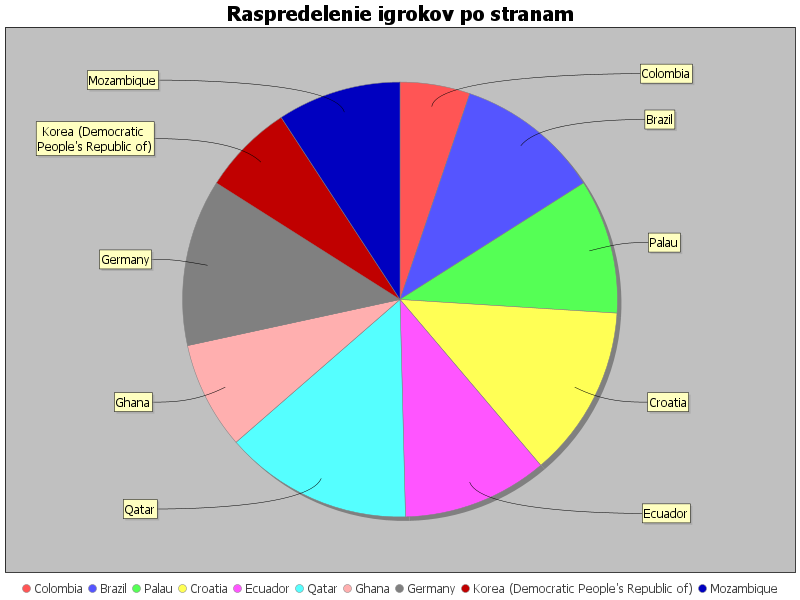
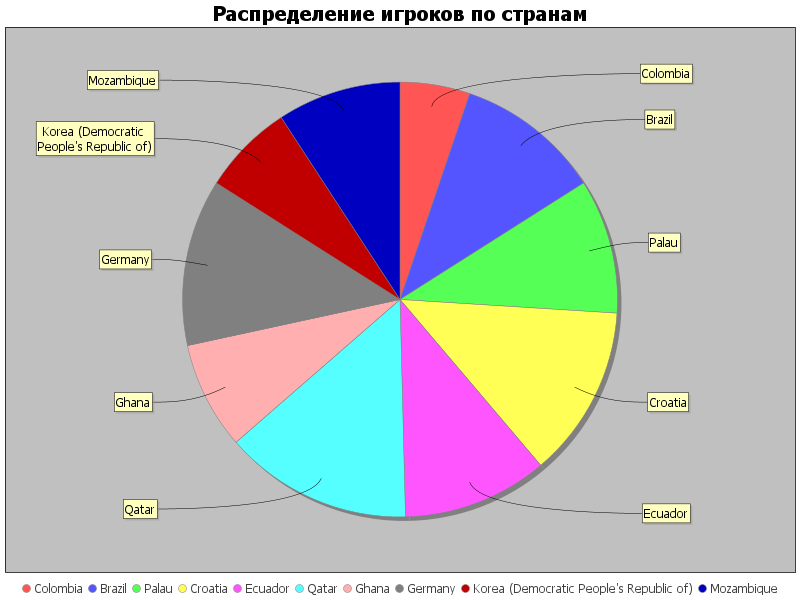
правки

Changed region(s): [[0.25, 0.0, 0.75, 0.06]]

diff --git a/src/main/kotlin/Main.kt b/src/main/kotlin/Main.kt
@@ -1,84 +1,63 @@
 import parser.CsvParser
 import resolver.Resolver
-import utils.Translit
 import org.jfree.chart.ChartFactory
 import org.jfree.chart.ChartUtils
 import org.jfree.data.general.DefaultPieDataset
 import java.io.File
 
 fun main() {
-    println(Translit.convert("==================================="))
-    println(Translit.convert("PRAKTICHESKAYA RABOTA - VARIANT 4"))
-    println(Translit.convert("==================================="))
+    println("практика - вариант 4")
 
-    // Zagruzhaem dannye
-    val allPlayers = CsvParser.getPlayers()
-    val analyzer = Resolver(allPlayers)
+    val players = CsvParser.getPlayers()
+    val resolver = Resolver(players)
 
-    // Zadanie 1 - Igroki bez agentstva
-    println(Translit.convert("\n[1] Igroki bez agentstva:"))
-    val withoutAgency = analyzer.getCountWithoutAgency()
-    println("    -> $withoutAgency chelovek")
+    // Задание 1
+    println("\n[1] Игроки без агентства:")
+    println("    -> ${resolver.getCountWithoutAgency()} человек")
 
-    // Zadanie 2 - Luchshiy zashchitnik bombardir
-    println(Translit.convert("\n[2] Luchshiy zashchitnik-bombardir:"))
-    val (bestScorer, goalsAmount) = analyzer.getBestScorerDefender()
-    println("    -> $bestScorer (goly: $goalsAmount)")
+    // Задание 2
+    println("\n[2] Лучший защитник-бомбардир:")
+    val (bestScorer, goals) = resolver.getBestScorerDefender()
+    println("    -> $bestScorer забил $goals голов")
 
-    // Zadanie 3 - Poziciya samogo dorogogo nemca
-    println(Translit.convert("\n[3] Poziciya samogo dorogogo nemeckogo igroka:"))
-    val germanPosition = analyzer.getTheExpensiveGermanPlayerPosition()
-    println("    -> ${Translit.convert(germanPosition)}")
+    // Задание 3
+    println("\n[3] Позиция самого дорогого немецкого игрока:")
+    println("    -> ${resolver.getTheExpensiveGermanPlayerPosition()}")
 
-    // Zadanie 4 - Samaya grubaya komanda
-    println(Translit.convert("\n[4] Komanda s naibolshim srednim chislom krasnyh kartochek:"))
-    val rudeTeam = analyzer.getTheRudestTeam()
+    // Задание 4
+    println("\n[4] Самая грубая команда:")
+    val rudeTeam = resolver.getTheRudestTeam()
     println("    -> ${rudeTeam.name} (${rudeTeam.city})")
 
-    // Vizualizaciya - diagramma po stranam
-    println(Translit.convert("\n[5] Sozdanie diagrammy raspredeleniya po stranam..."))
-    val countryStats = analyzer.getPlayersByCountry()
+    // Визуализация
+    println("\n[5] Создание диаграммы распределения по странам...")
+    val countryStats = resolver.getPlayersByCountry()
 
-    // Vyvod statistiki v konsol
-    println(Translit.convert("\nSTATISTIKA PO STRANAM:"))
-    println(Translit.convert("---------------------"))
+    println("\nСТАТИСТИКА ПО СТРАНАМ:")
+    println("---------------------")
+    countryStats.toList()
+        .sortedByDescending { it.second }
+        .forEachIndexed { index, (country, count) ->
+            println("${index + 1}. $country: $count")
+        }
 
-    val sortedCountries = countryStats.toList().sortedByDescending { (_, count) -> count }
-
-    for ((index, pair) in sortedCountries.withIndex()) {
-        val (country, count) = pair
-        println("${index + 1}. $country: $count")
-    }
-
-    // Sohranyaem diagrammu
-    savePieChart(countryStats, "countries_pie_chart.png")
-    println(Translit.convert("\n✅ Diagramma sohranena v fail: countries_pie_chart.png"))
-
-    // Dopolnitelnaya informaciya
-    println(Translit.convert("\n" + "=".repeat(40)))
-    println(Translit.convert("VSEGO PROANALIZIROVANO: ${allPlayers.size} igrokov"))
-    println(Translit.convert("=".repeat(40)))
+    saveCountryChart(countryStats, "countries_pie_chart.png")
+    println("\n Диаграмма сохранена: countries_pie_chart.png")
 }
 
-fun savePieChart(data: Map<String, Int>, fileName: String) {
+private fun saveCountryChart(data: Map<String, Int>, fileName: String) {
     val dataset = DefaultPieDataset<String>()
-
-    // Zapolnyaem dannyami
-    for ((category, value) in data) {
-        dataset.setValue(category, value.toDouble())
+    data.forEach { (country, count) ->
+        dataset.setValue(country, count.toDouble())
     }
 
-    // Sozdaem diagrammu
     val chart = ChartFactory.createPieChart(
-        Translit.convert("Raspredelenie igrokov po stranam"),
+        "Распределение игроков по странам",
         dataset,
-        true,  // legenda
-        true,  // podskazki
-        false  // URL
+        true,
+        true,
+        false
     )
 
-    // Sohranyaem kak PNG
-    val width = 800
-    val height = 600
-    ChartUtils.saveChartAsPNG(File(fileName), chart, width, height)
+    ChartUtils.saveChartAsPNG(File(fileName), chart, 800, 600)
 }

diff --git a/src/main/kotlin/resolver/Resolver.kt b/src/main/kotlin/resolver/Resolver.kt
@@ -7,74 +7,42 @@ import model.Position
 class Resolver(private val players: List<Player>) : IResolver {
 
     override fun getCountWithoutAgency(): Int {
-        // Другая реализация через fold
-        return players.fold(0) { acc, player ->
-            if (player.agency.isBlank()) acc + 1 else acc
-        }
+        return players.count { it.agency.isBlank() }
     }
 
     override fun getBestScorerDefender(): Pair<String, Int> {
-        // Другая реализация через переменные
-        var bestName = ""
-        var bestGoals = -1
-
-        for (player in players) {
-            if (player.position == Position.DEFENDER && player.goals > bestGoals) {
-                bestGoals = player.goals
-                bestName = player.name
-            }
-        }
-
-        return if (bestGoals > -1) bestName to bestGoals else "" to 0
+        return players
+            .filter { it.position == Position.DEFENDER }
+            .maxByOrNull { it.goals }
+            ?.let { it.name to it.goals }
+            ?: ("" to 0)
     }
 
     override fun getTheExpensiveGermanPlayerPosition(): String {
-        // Сортируем по-другому
-        val germanPlayers = players.filter { it.nationality.equals("Germany", ignoreCase = true) }
-        if (germanPlayers.isEmpty()) return ""
-
-        // Сортируем вручную
-        val sorted = germanPlayers.sortedByDescending { it.transferCost }
-        val mostExpensive = sorted.firstOrNull() ?: return ""
-
-        return when (mostExpensive.position) {
-            Position.GOALKEEPER -> "Вратарь"
-            Position.DEFENDER -> "Защитник"
-            Position.MIDFIELD -> "Полузащитник"
-            Position.FORWARD -> "Нападающий"
-        }
+        return players
+            .filter { it.nationality.equals("Germany", ignoreCase = true) }
+            .maxByOrNull { it.transferCost }
+            ?.position
+            ?.let { pos ->
+                when (pos) {
+                    Position.GOALKEEPER -> "Вратарь"
+                    Position.DEFENDER -> "Защитник"
+                    Position.MIDFIELD -> "Полузащитник"
+                    Position.FORWARD -> "Нападающий"
+                }
+            } ?: ""
     }
 
     override fun getTheRudestTeam(): Team {
-        // Другая реализация через mutableMap
-        val teamStats = mutableMapOf<Team, Pair<Int, Int>>() // сумма красных, кол-во игроков
-
-        for (player in players) {
-            val current = teamStats[player.team] ?: (0 to 0)
-            teamStats[player.team] = (current.first + player.redCards) to (current.second + 1)
-        }
-
-        var worstTeam: Team? = null
-        var maxAverage = -1.0
-
-        for ((team, stats) in teamStats) {
-            val average = stats.first.toDouble() / stats.second
-            if (average > maxAverage) {
-                maxAverage = average
-                worstTeam = team
+        return players
+            .groupBy { it.team }
+            .maxByOrNull { (_, teamPlayers) ->
+                teamPlayers.map { it.redCards }.average()
             }
-        }
-
-        return worstTeam ?: Team("", "")
+            ?.key ?: Team("", "")
     }
 
     fun getPlayersByCountry(): Map<String, Int> {
-        // Другая реализация через mutableMap
-        val result = mutableMapOf<String, Int>()
-        for (player in players) {
-            val country = player.nationality
-            result[country] = (result[country] ?: 0) + 1
-        }
-        return result
+        return players.groupingBy { it.nationality }.eachCount()
     }
 }

diff --git a/src/main/kotlin/parser/CsvParser.kt b/src/main/kotlin/parser/CsvParser.kt
@@ -19,19 +19,21 @@ object CsvParser {
 }
 
 private fun String.toPlayer(): Player {
-    val playerInfo = split(";")
+    val parts = split(";")
+
+    fun safeInt(index: Int) = parts.getOrNull(index)?.toIntOrNull() ?: 0
 
     return Player(
-        name = playerInfo[0],
-        team = Team(playerInfo[1], playerInfo[2]),
-        position = Position.valueOf(playerInfo[3]),
-        nationality = playerInfo[4],
-        agency = playerInfo[5],
-        transferCost = playerInfo[6].toInt(),
-        participations = playerInfo[7].toInt(),
-        goals = playerInfo[8].toInt(),
-        assists = playerInfo[9].toInt(),
-        yellowCards = playerInfo[10].toInt(),
-        redCards = playerInfo[11].toInt()
+        name = parts[0],
+        team = Team(parts[1], parts[2]),
+        position = Position.valueOf(parts[3]),
+        nationality = parts[4],
+        agency = parts[5],
+        transferCost = safeInt(6),
+        participations = safeInt(7),
+        goals = safeInt(8),
+        assists = safeInt(9),
+        yellowCards = safeInt(10),
+        redCards = safeInt(11)
     )
 }

diff --git a/src/main/kotlin/resolver/IResolver.kt b/src/main/kotlin/resolver/IResolver.kt
@@ -3,16 +3,8 @@ package resolver
 import model.Team
 
 interface IResolver {
-
-    // Выведите количество игроков, интересы которых не представляет агенство.
     fun getCountWithoutAgency(): Int
-
-    // Выведите автора наибольшего числа голов из числа защитников и их количество.
     fun getBestScorerDefender(): Pair<String, Int>
-
-    // Выведите русское название позиции самого дорогого немецкого игрока.
     fun getTheExpensiveGermanPlayerPosition(): String
-
-    // Выберите команду с наибольшим числом удалений на одного игрока.
     fun getTheRudestTeam(): Team
 }
